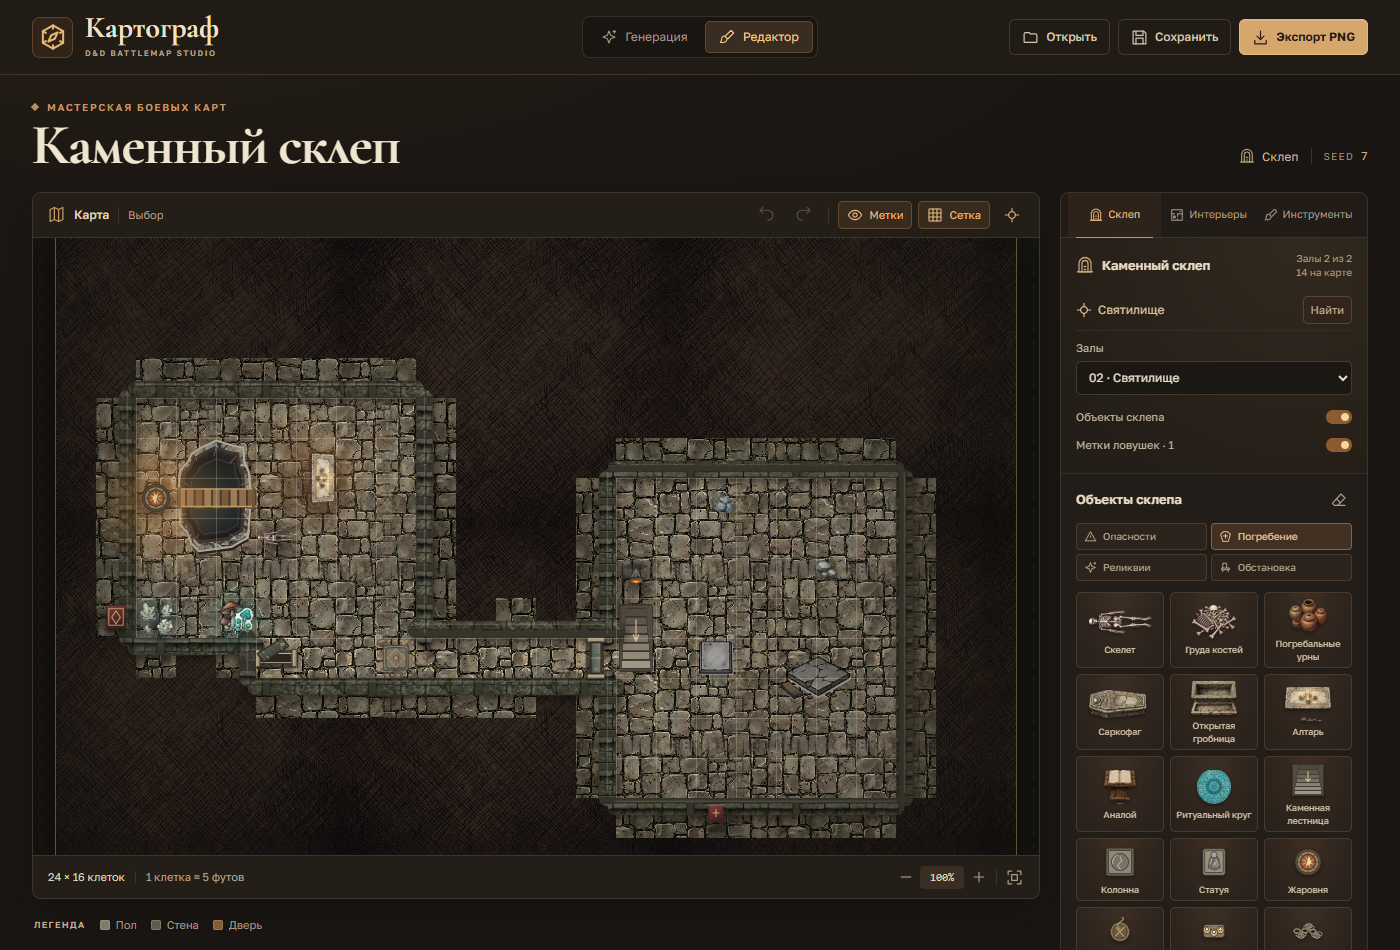
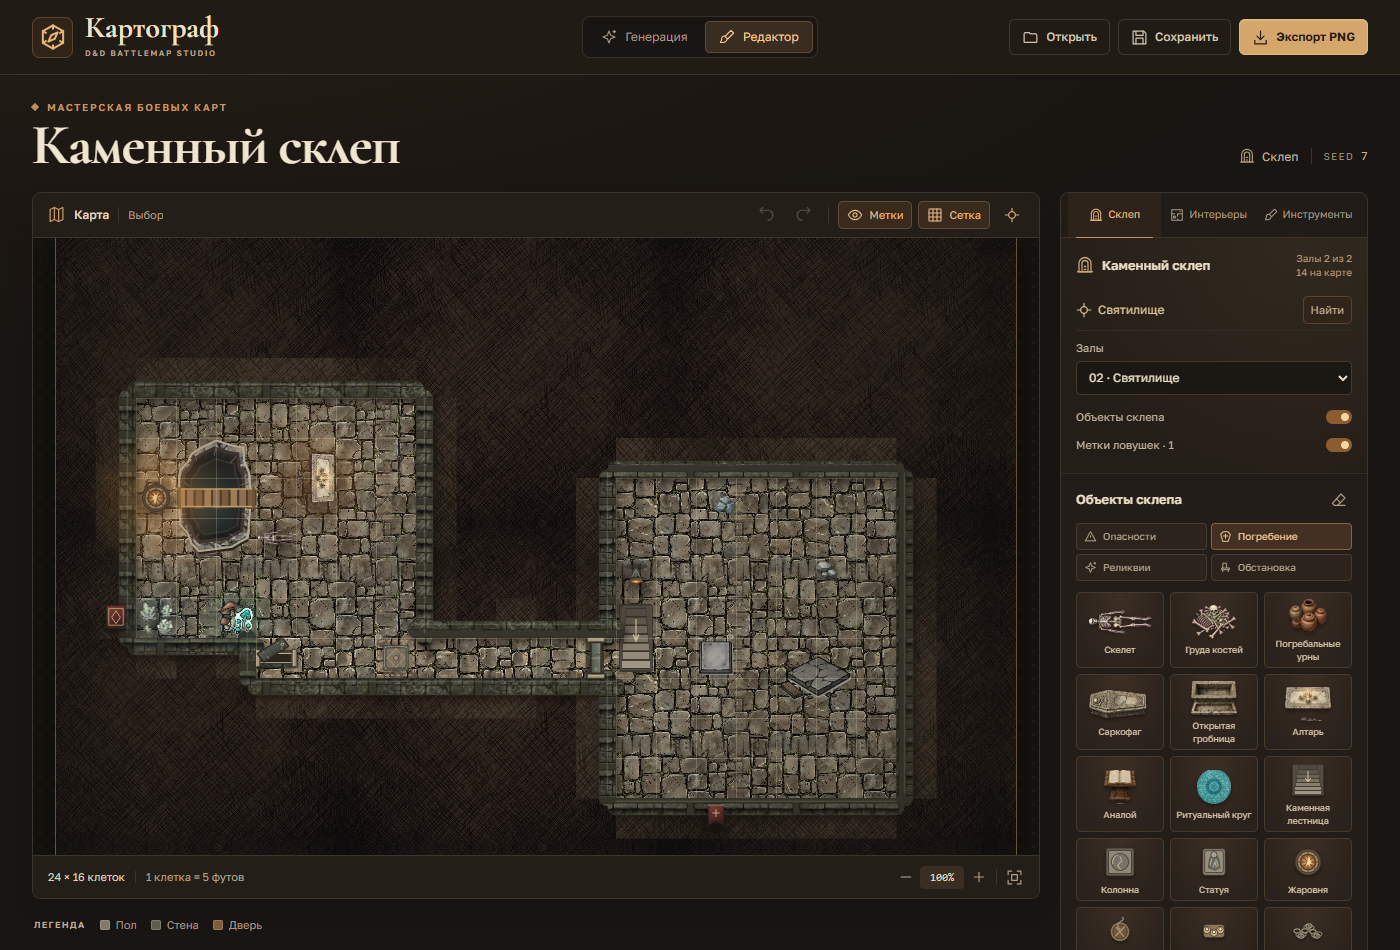
fix: не показывать пол под тонкими стенами

diff --git a/src/lib/wallPaint.ts b/src/lib/wallPaint.ts
@@ -32,6 +32,31 @@ export function drawWalls(
 
   const band = cs * Math.max(0.2, Math.min(1.7, wallThickness));
   const offset = band / 2;
+
+  // Клетки стены заливаем фоном-штриховкой, как пустоту за картой: при
+  // тонкой ленте под ней не должен проступать пол и не должно быть чёрной рамки.
+  ctx.save();
+  ctx.fillStyle = '#211e18';
+  for (let y = 0; y < map.height; y++) for (let x = 0; x < map.width; x++) {
+    if (map.cells[y]?.[x]?.terrain === 'wall') ctx.fillRect(x * cs, y * cs, cs + 0.5, cs + 0.5);
+  }
+  const hatching = art['hatching'];
+  if (hatching) {
+    const pattern = ctx.createPattern(hatching, 'repeat');
+    if (pattern) {
+      const sx = cs / (hatching.naturalWidth / 8.1);
+      const sy = cs / (hatching.naturalHeight / 8.1);
+      pattern.setTransform(new DOMMatrix([sx, 0, 0, sy, 0, 0]));
+      ctx.globalAlpha = 0.55;
+      ctx.fillStyle = pattern;
+      for (let y = 0; y < map.height; y++) for (let x = 0; x < map.width; x++) {
+        if (map.cells[y]?.[x]?.terrain === 'wall') ctx.fillRect(x * cs, y * cs, cs + 0.5, cs + 0.5);
+      }
+      ctx.globalAlpha = 1;
+    }
+  }
+  ctx.restore();
+
   const segments: [number, number, number, number][] = [];
   for (let y = 0; y < map.height; y++) for (let x = 0; x < map.width; x++) {
     if (!floorLike(map, x, y)) continue;
